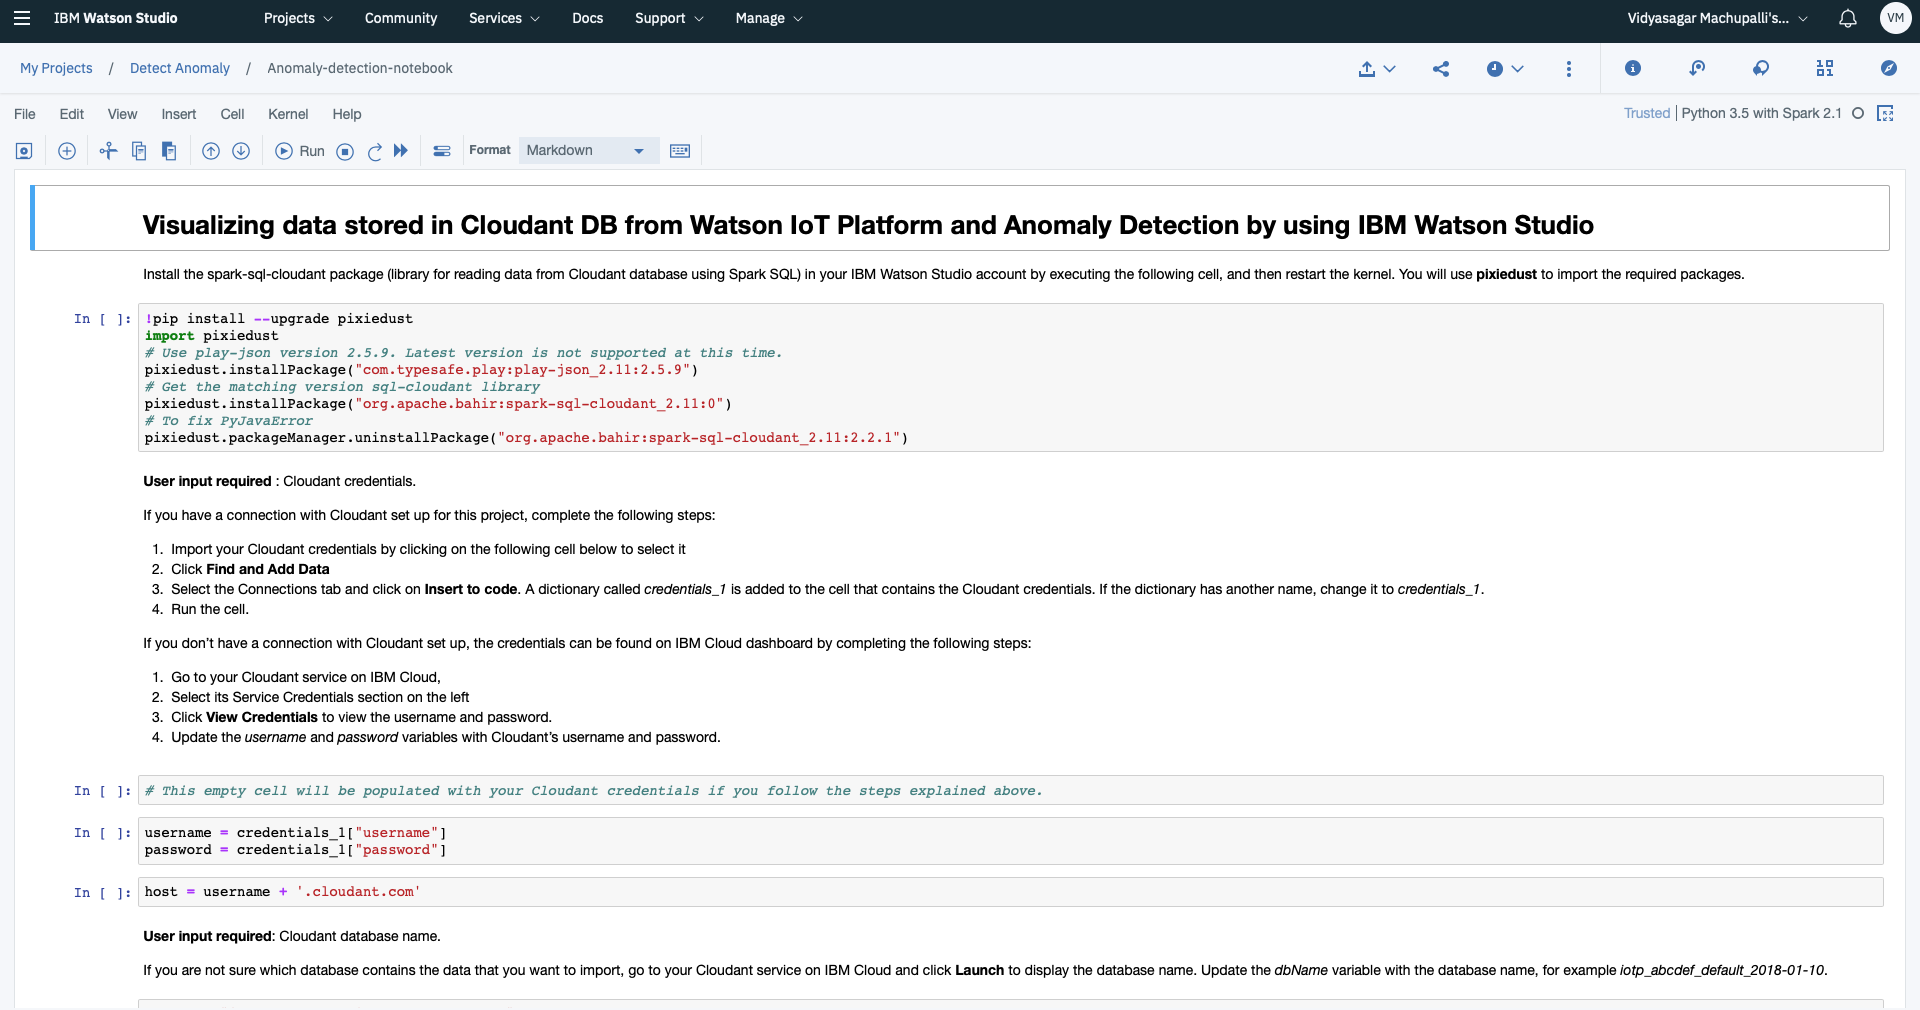
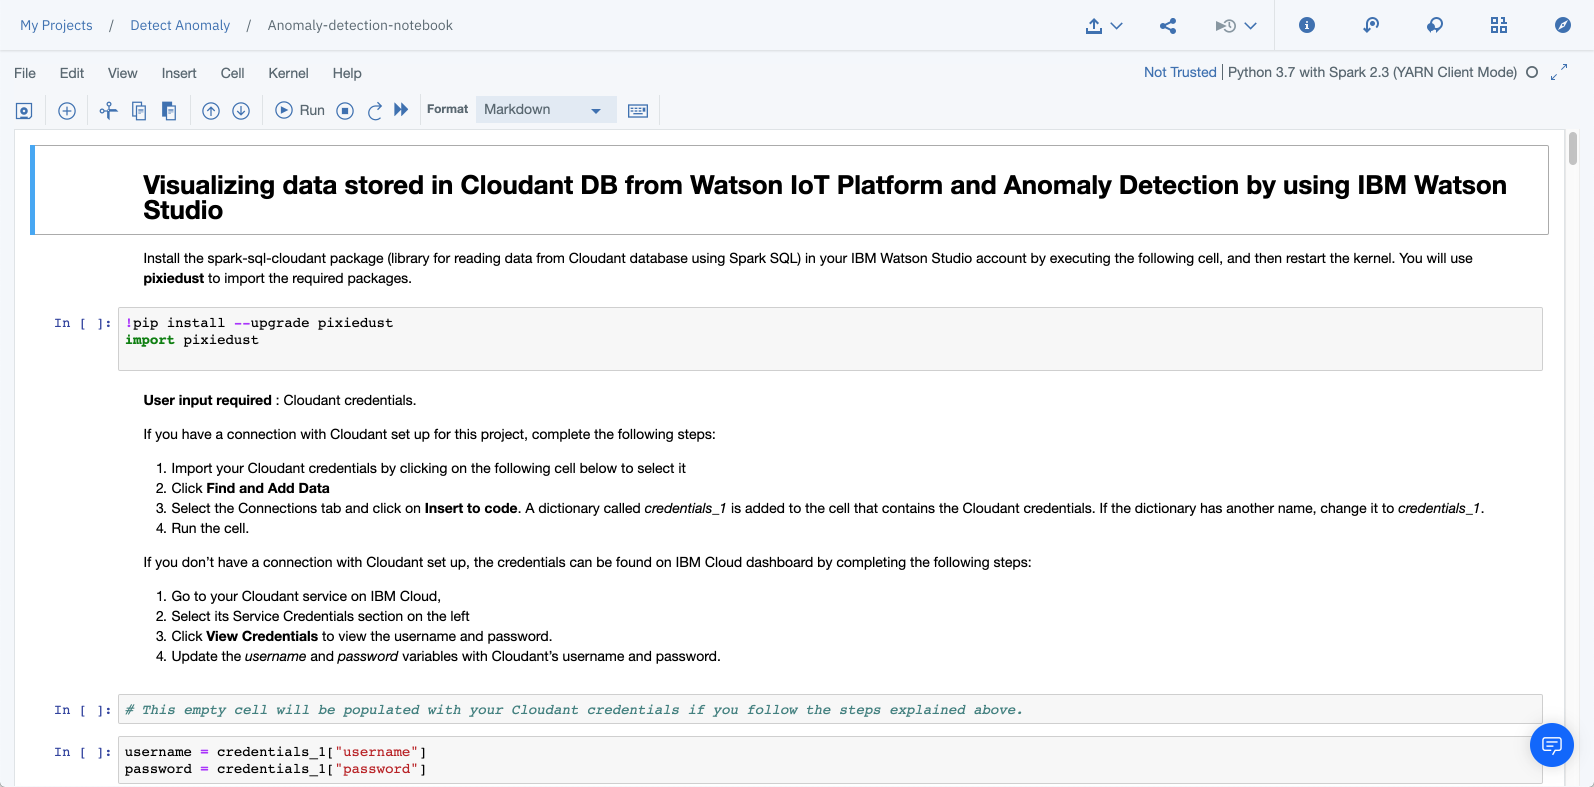
updated to AE 1.2

diff --git a/gather-visualize-analyze-iot-data.md b/gather-visualize-analyze-iot-data.md
@@ -64,12 +64,12 @@ To begin, you will create Internet of Things Platform service - The hub which ca
 2. Enter `IoT demo hub` as the service name, choose a pricing plan, click **Create** and **Launch**(under Manage) the dashboard.
 3. From the side menu, select **Security** > click Edit icon next to **Connection Security** and choose **TLS Optional** under **Default Rule** > **Security Level** and click **Save**.
 4. From the side menu, select **Devices** > **Device Types**  and **+ Add Device Type**.
-5. Enter `simulator` as the **Name** and click **Next** and **Done**.
+5. Enter `simulator` as the **Name** and click **Next** and **Finish**.
 6. Next, click on **Register Devices**.
-7. Under **Browse** > **Identity** enter `phone` for **Device ID**.
+7. Select **simulator** as **Device Type** and enter `phone` for **Device ID**.
 8. Click **Next** until the **Security** screen is displayed.
 9. Enter a value for the **Authentication Token**, for example: `myauthtoken` and click **Next**.
-10. After clicking **Done**, your connection information is displayed. Keep this tab open.
+10. After clicking **Finish**, your connection information is displayed. Keep this tab open.
 
 The IoT platform is now configured to start receiving data. Devices will need to send their data to the IoT Platform with the Device Type, ID and Token specified.
 
@@ -82,15 +82,14 @@ Next, you will deploy a Node.js web application and visit it on your phone, whic
    git clone https://github.com/IBM-Cloud/iot-device-phone-simulator
    cd iot-device-phone-simulator
    ```
-2. Open the code in an IDE of your choice and change the `name` value in the **manifest.yml** file to a **unique** value.
 3. Push the application to the {{site.data.keyword.Bluemix_notm}}.
    ```bash
    ibmcloud login
    ibmcloud target --cf
    ibmcloud cf push
    ```
-4. In a few minutes, your application will be deployed and you should see a URL similar to `<UNIQUE_NAME>.mybluemix.net`
-5. Visit the application URL with HTTPS (`https://<UNIQUE_NAME>.mybluemix.net`) on your phone using a browser.
+4. In a few minutes, your application will be deployed and you should see a URL similar to `<random-name>.mybluemix.net`
+5. Visit the application URL with HTTPS (`https://<random-name>.mybluemix.net`) on your phone using a browser.
 6. Enter the connection information from your IoT Dashboard tab under **Device Credentials** and click **Connect**.
 7. Your phone will start transmitting data. Check for new entries in the **Recent Events** section.
   ![](images/solution16/recent_events_with_phone.png)
@@ -162,24 +161,38 @@ In this section, you will use the Jupyter Notebook that is available in the IBM 
 2. Select the **iot-db** {{site.data.keyword.cloudant_short_notm}} where the device data is stored.
 3. Verify the **Credentials** and then click **Create**.
 
-### Create an {{site.data.keyword.iae_full_notm}} service
+### Select or Create an {{site.data.keyword.iae_full_notm}} service
 
-1. Click **Settings** on the top navigation bar > Associated Services.
-1. Click **Add service**.
+If you don't have an existing **{{site.data.keyword.iae_full_notm}}** service:
+1. Go to {{site.data.keyword.cloud_notm}} catalog, select [{{site.data.keyword.iae_short}}](https://{DomainName}/catalog/services/analytics-engine).
+1. Select the **Lite** plan and click **Configure**.
+1. In the configuration page, set the Software package to **AE 1.2 Spark and Hadoop**.
+1. Click **Create**.
+
+Once the service is provisioned or if you have an existing service instance you want to use and configured with software package **AE 1.2 Spark and Hadoop**:
+1. Open the service details page.
+1. Under **Service credentials**, create new credentials:
+   1. Set **Name** to **wdp-writer**
+   1. Set **Role** to **Writer**
+1. Under **Manage**, retrieve the user name and password for the cluster. You may need to reset the cluster password.
+
+In {{site.data.keyword.DSX}},:
+1. Select the **Detect Anomaly** project.
+1. Click **Settings** on the top navigation bar.
+1. Scroll to **Associated Services.**
+   1. Click **Add service**.
    1. Select **{{site.data.keyword.iae_full_notm}}**.
-   1. Click **New** > Select the **Lite** plan.
-   1. Click **Create**.
-   1. Select a resource group.
-   1. Select **AE 1.1 Spark** as software package and **Confirm**.
-1. If you don't see the service in the associated services list, Click **Add service**, select **{{site.data.keyword.iae_full_notm}}**.
-1. Select the **{{site.data.keyword.iae_full_notm}}** instance previously created under **Existing**. If the service is not showing in the list, make sure it is fully provisioned first.
+1. Select the **Existing** service instance discussed above.
+1. Enter the cluster user name and password.
+1. Click **Select**.
 
 ### Create a Jupyter (ipynb) notebook
 1. Click **+ Add to Project** and add a new **Notebook**.
 2. Enter `Anomaly-detection-notebook` for the **Name**.
 3. Enter `https://github.com/IBM-Cloud/iot-device-phone-simulator/raw/master/anomaly-detection/Anomaly-detection-watson-studio-python3.ipynb` in the **Notebook URL**.
 4. Select the **{{site.data.keyword.iae_full_notm}}** service associated previously as the runtime.
-5. Create **Notebook**. Set `Python 3.5 with Spark 2.3 (YARN Client Mode)` as your Kernel. Check that the notebook is created with metadata and code.
+5. Create **Notebook**.
+1. Set `Python 3.7 with Spark 2.3 (YARN Client Mode)` as your Kernel. Check that the notebook is created with metadata and code.
    ![Jupyter Notebook Watson Studio](images/solution16/jupyter_notebook_watson_studio.png)
    To update, **Kernel** > Change kernel. To **Trust** the notebook, **File** > Trust Notebook.
    {:tip}
